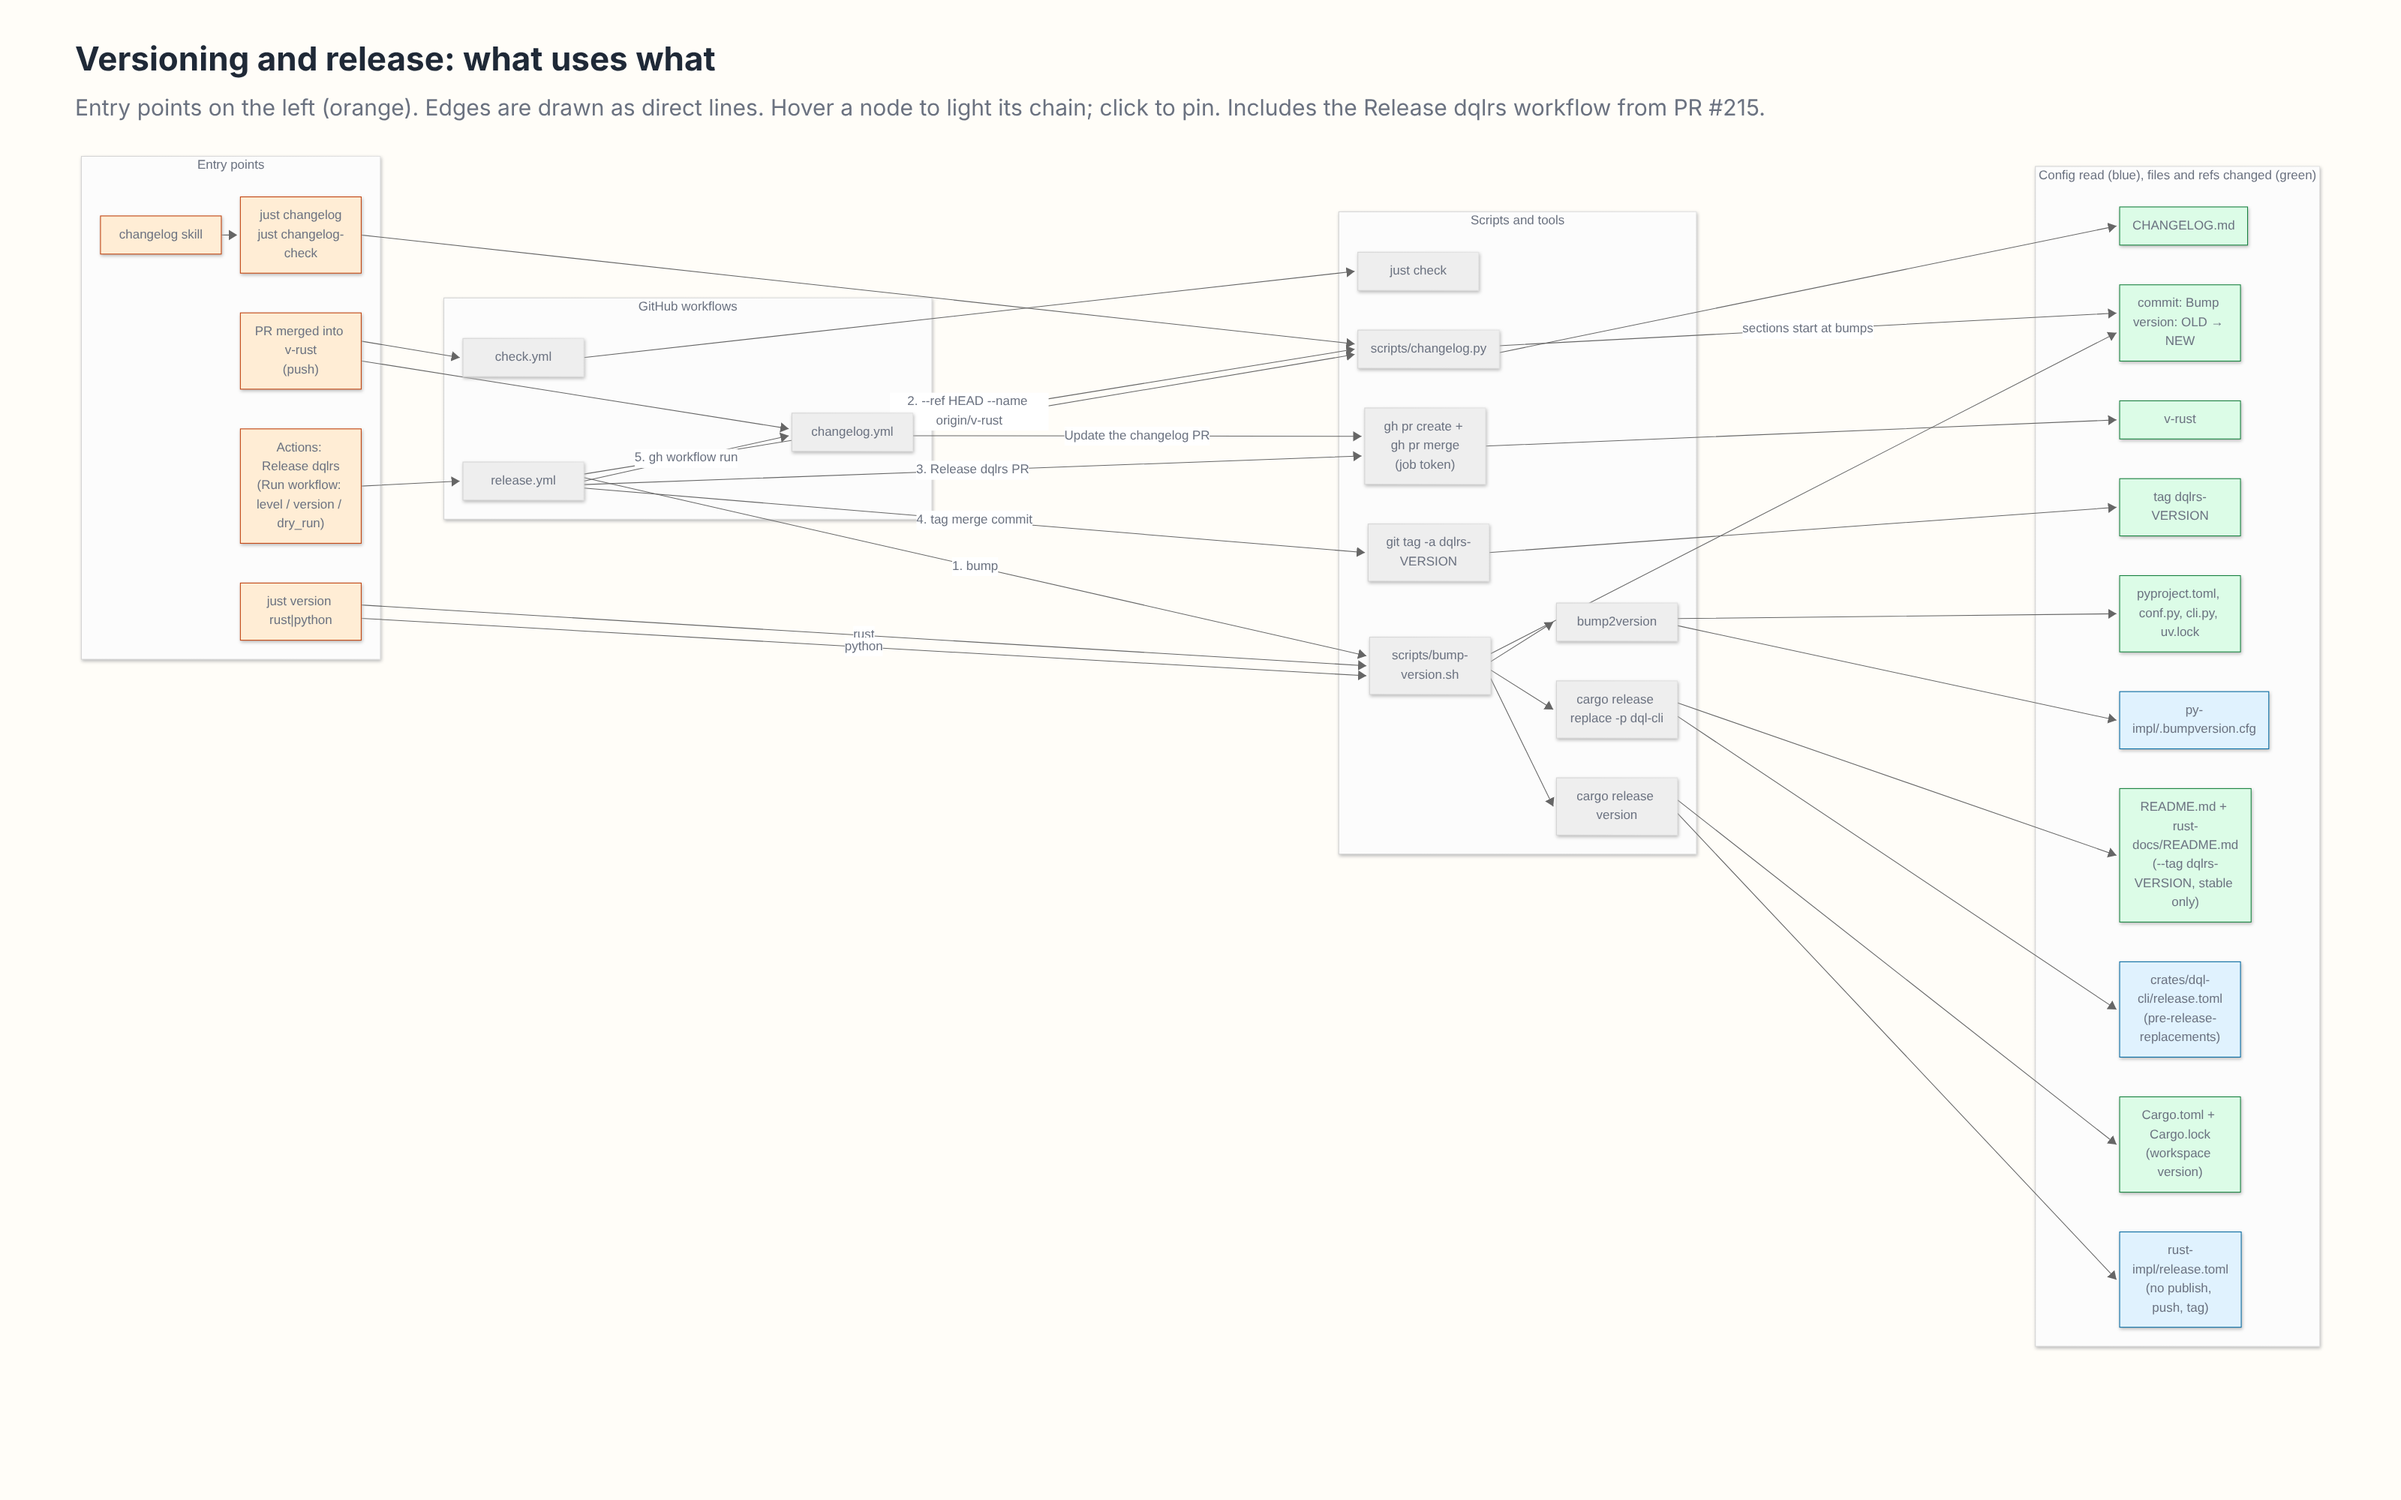
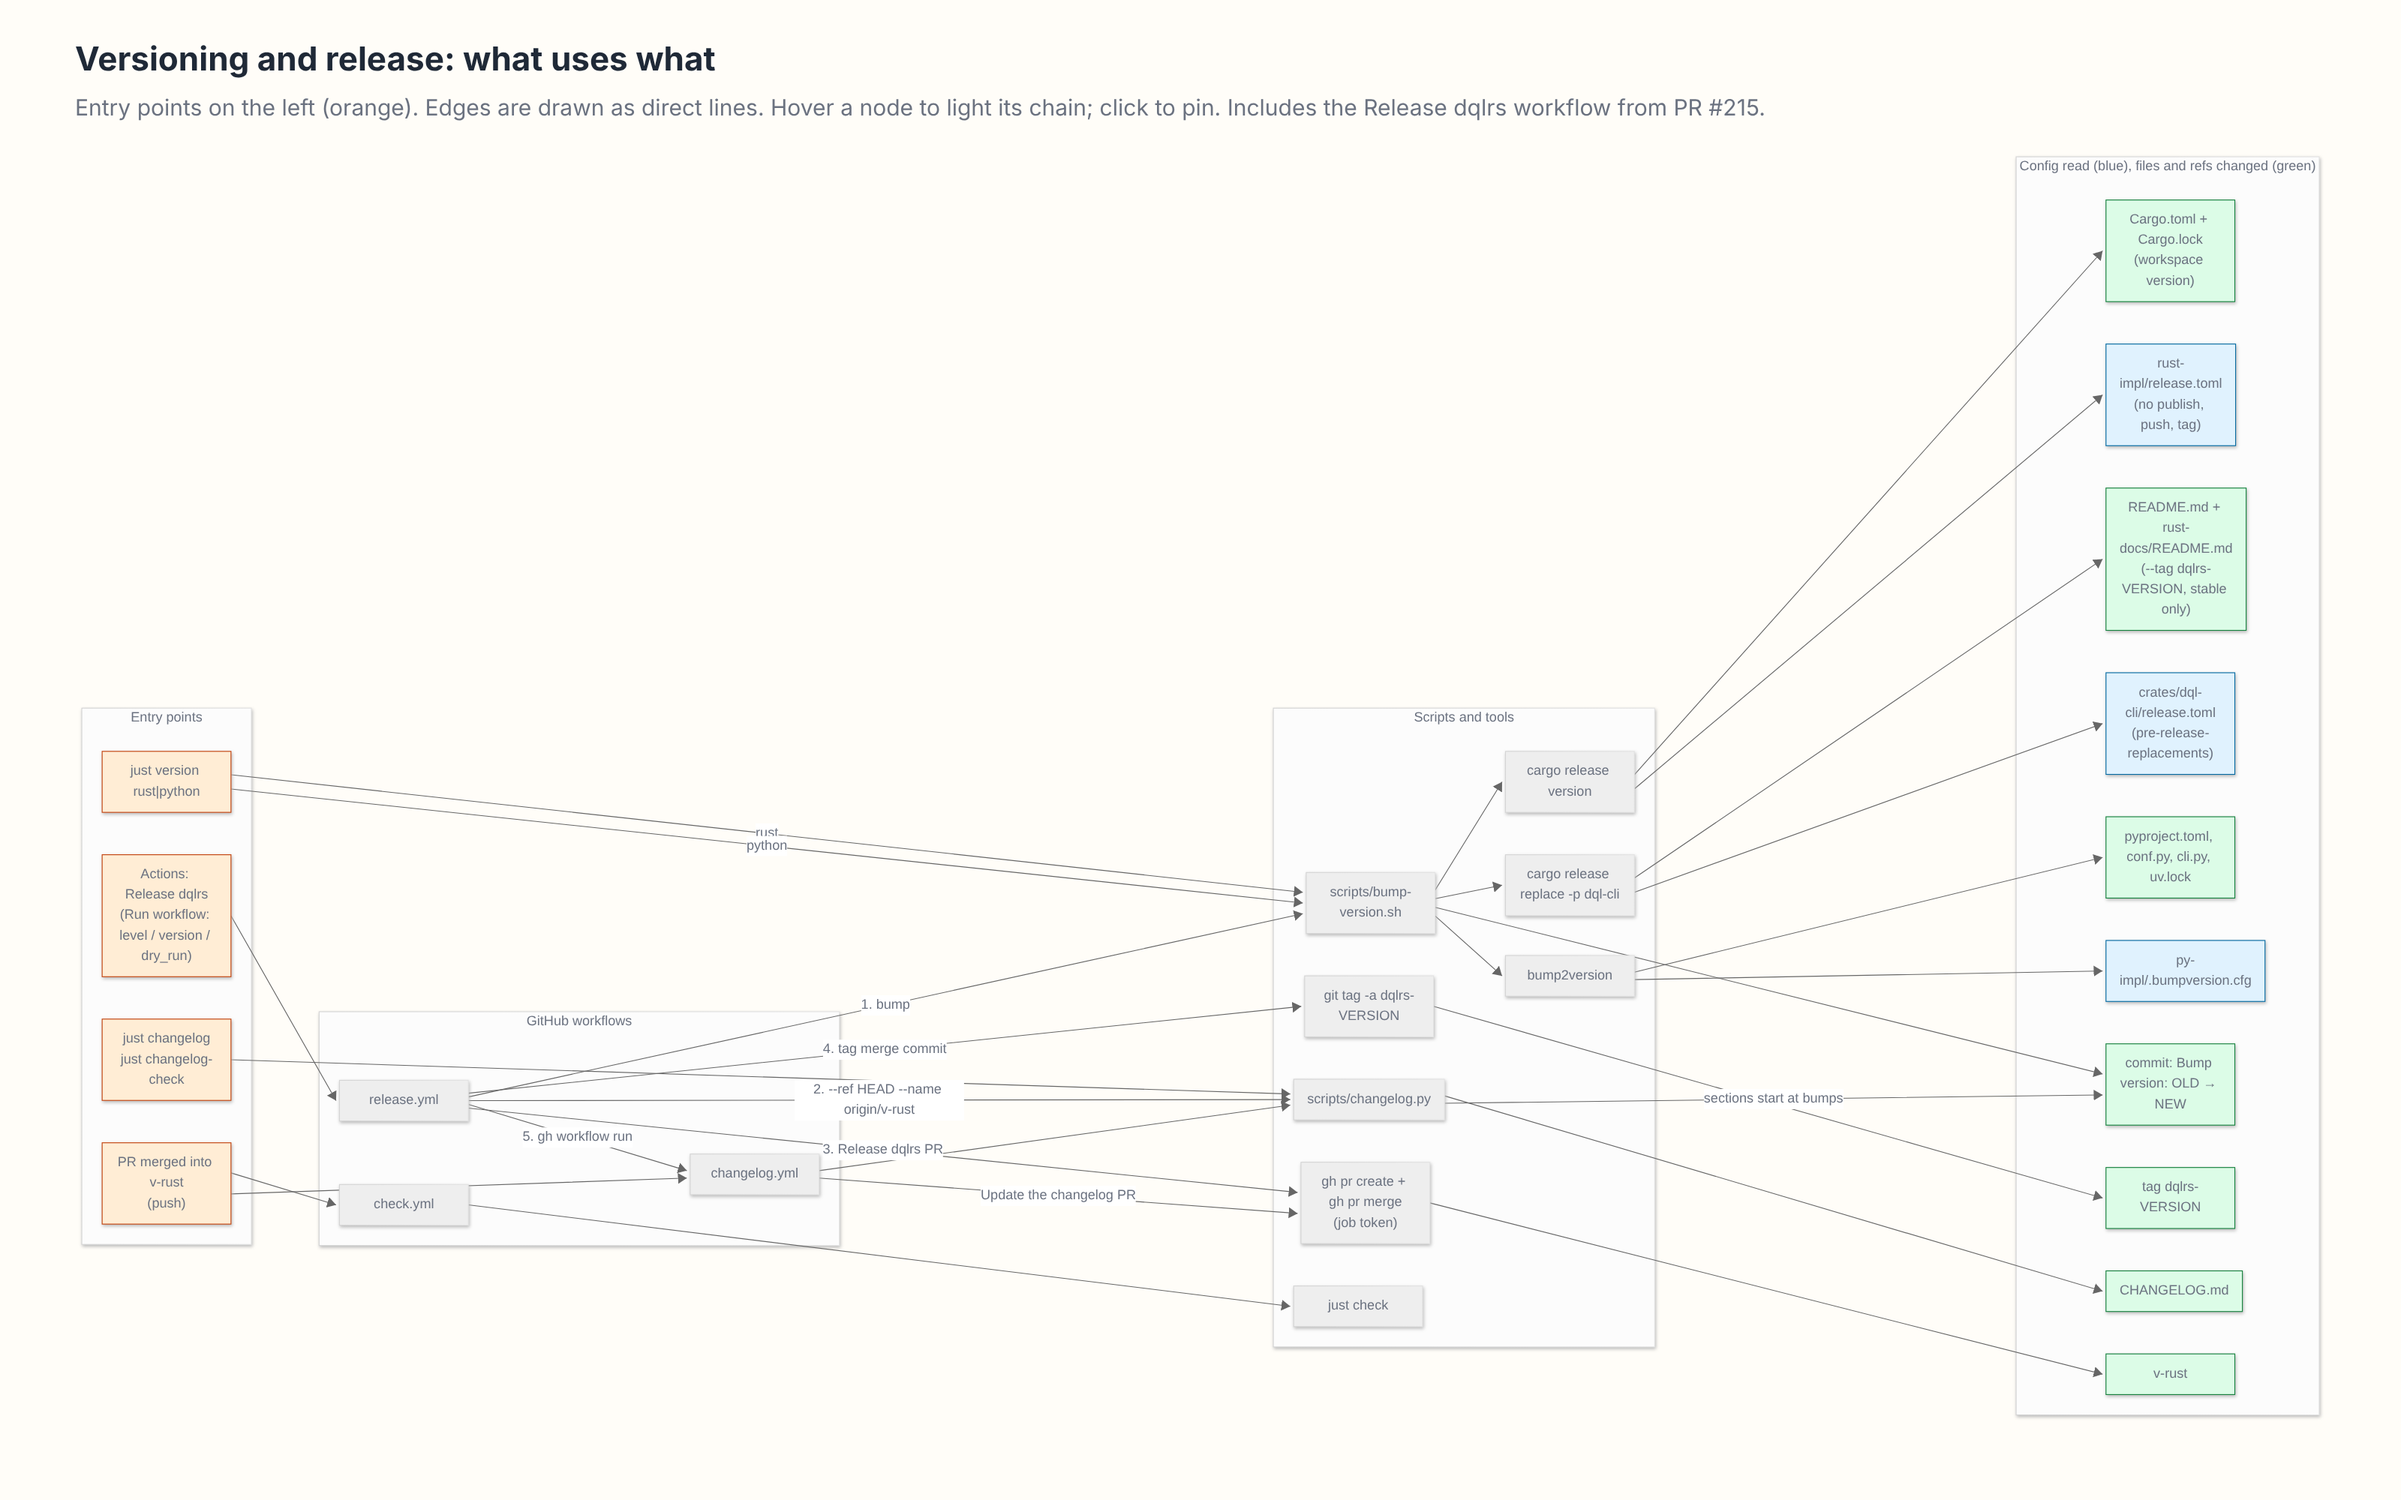
Remove the changelog skill
The Changelog and Release dqlrs workflows keep CHANGELOG.md current, and
just changelog stays for local runs. The release flow graph drops the
skill node.

Claude-Session: https://claude.ai/code/session_01UxJe5gZ1uBbk1DRFLucxG1

diff --git a/screenshots/release-flow/release-flow.html b/screenshots/release-flow/release-flow.html
@@ -45,7 +45,6 @@ flowchart LR
     justVersion["just version rust|python"]
     mergeVrust["PR merged into v-rust<br/>(push)"]
     justChangelog["just changelog<br/>just changelog-check"]
-    clSkill["changelog skill"]
   end
 
   subgraph wfs [GitHub workflows]
@@ -83,7 +82,6 @@ flowchart LR
   justVersion -->|"python"| bumpScript
   mergeVrust --> changelogYml
   mergeVrust --> checkYml
-  clSkill --> justChangelog
   justChangelog --> changelogPy
 
   releaseYml -->|"1. bump"| bumpScript
@@ -112,7 +110,7 @@ flowchart LR
   ghPr --> vrust
   gitTag --> tagRef
 
-  class relDispatch,justVersion,mergeVrust,justChangelog,clSkill entry
+  class relDispatch,justVersion,mergeVrust,justChangelog entry
   class wsRelease,cliRelease,pyBumpCfg file
   class cargoToml,readmes,pyFiles,changelogMd,bumpCommit,vrust,tagRef out
 </pre>
